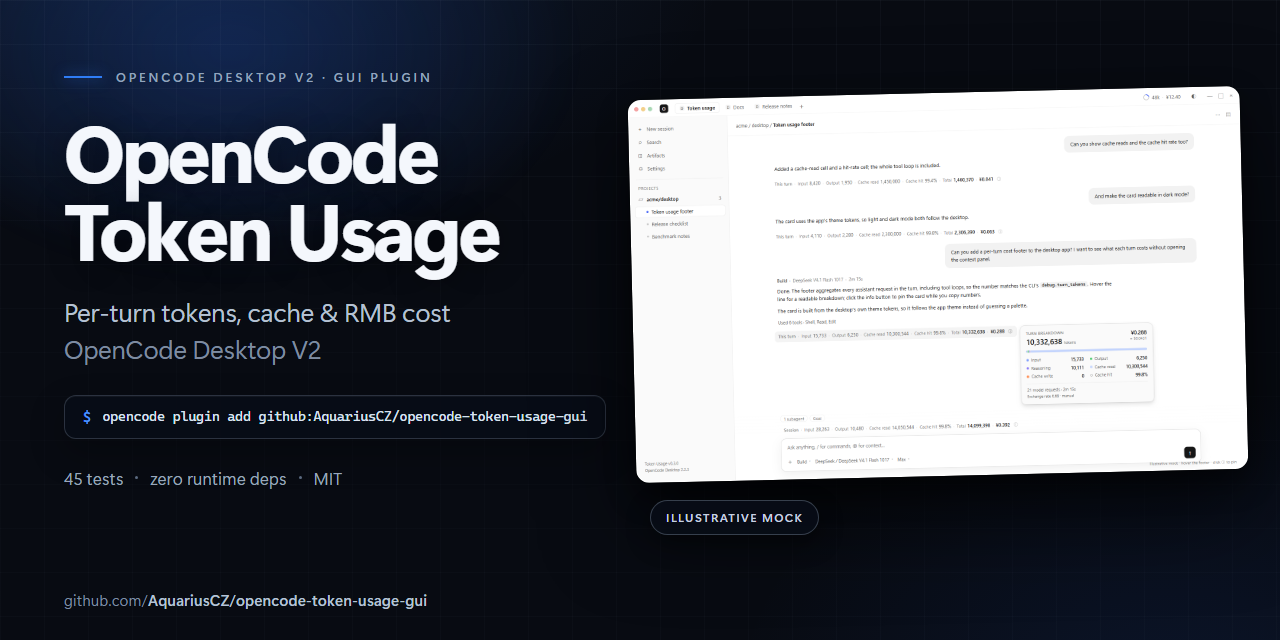
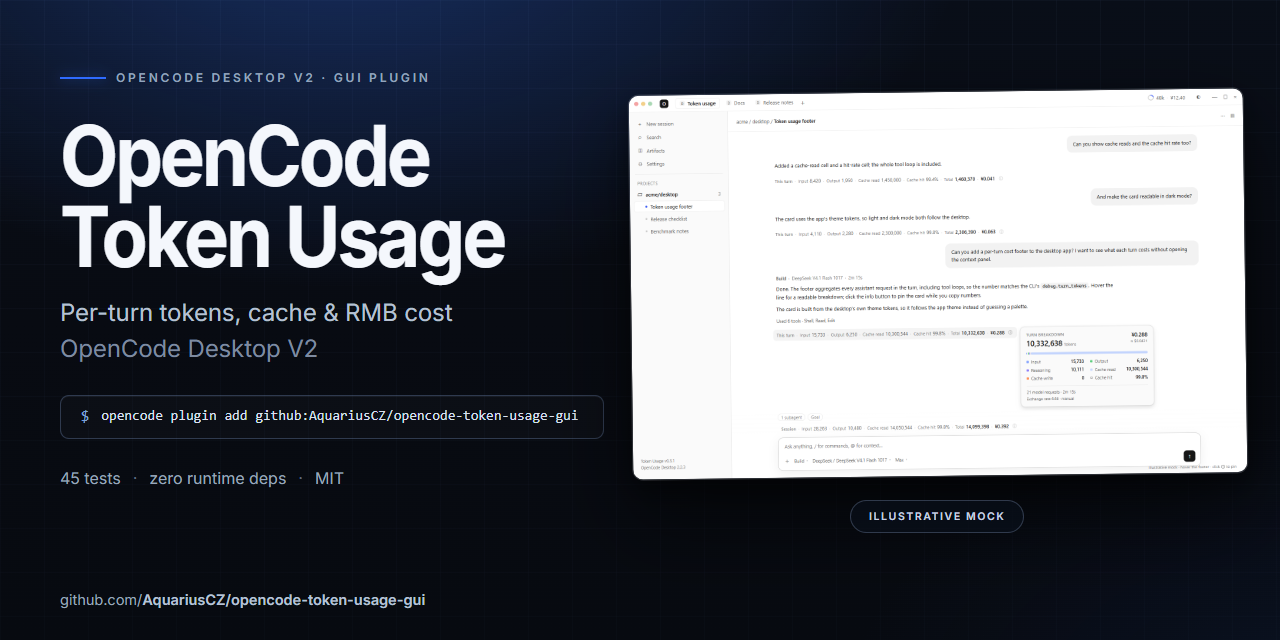
docs: refresh the 0.3.1 mock assets

diff --git a/assets/mock.html b/assets/mock.html
@@ -911,7 +911,7 @@
           <div class="session"><span class="dot-mini"></span>Benchmark notes</div>
 
           <div class="sidebar-footer">
-            Token Usage v0.3.0<br />
+            Token Usage v0.3.1<br />
             OpenCode Desktop 2.2.3
           </div>
         </aside>
